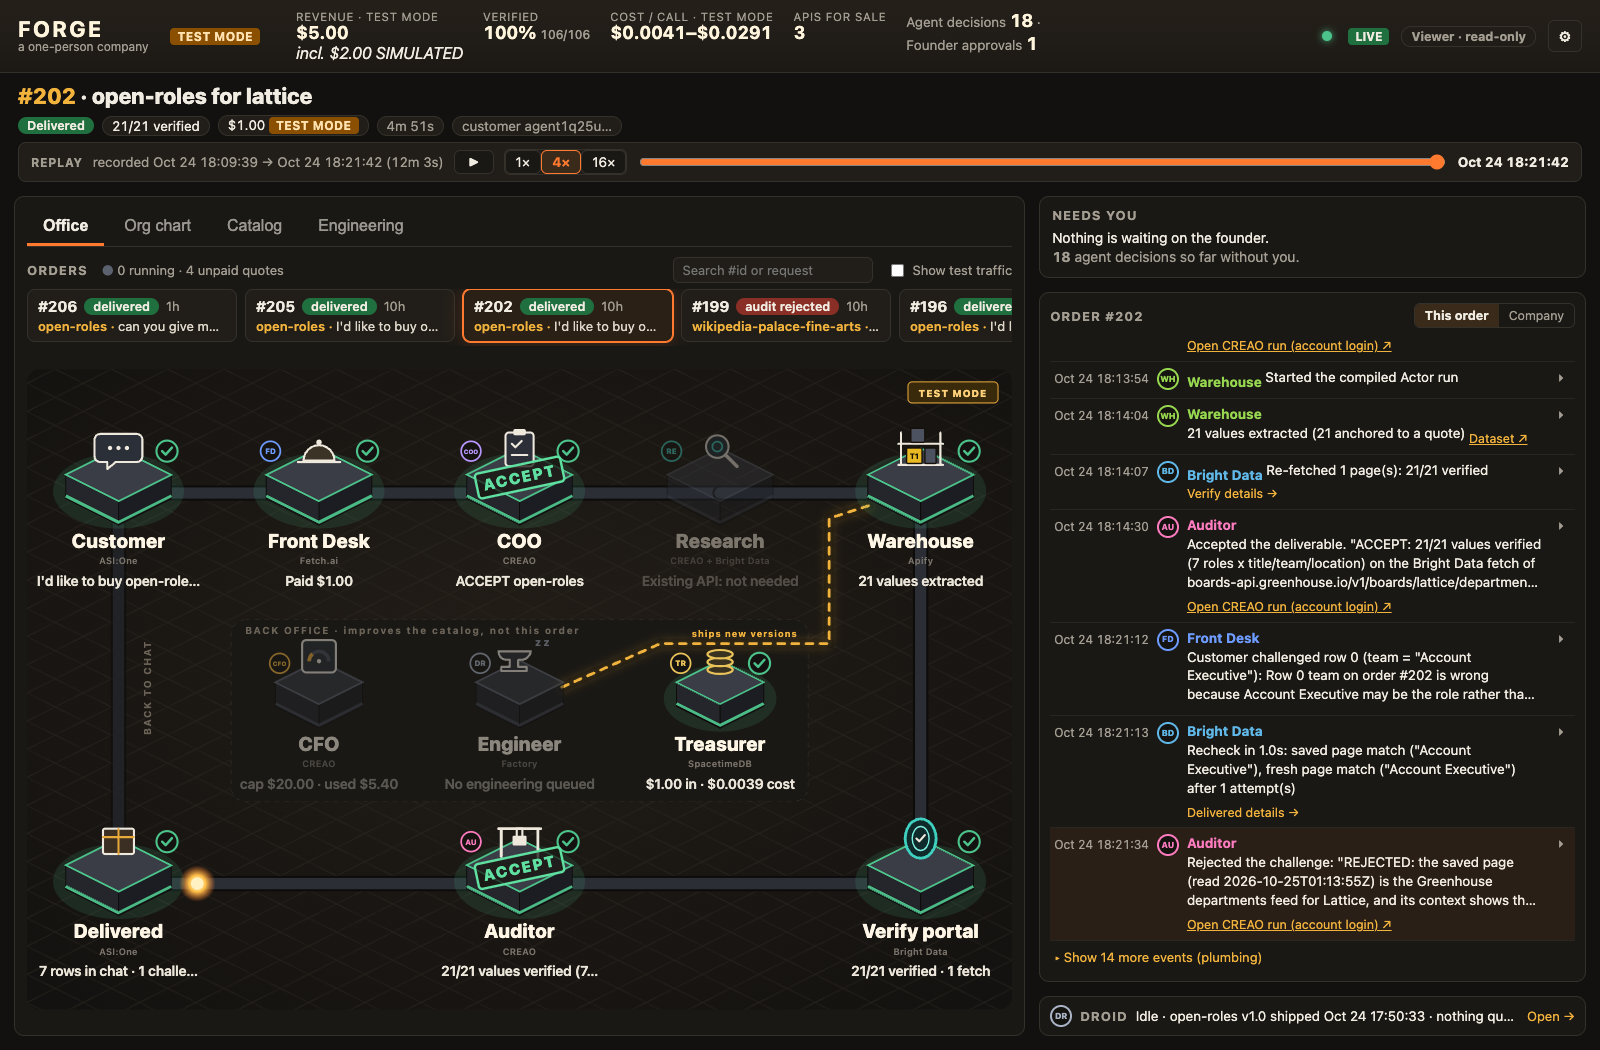
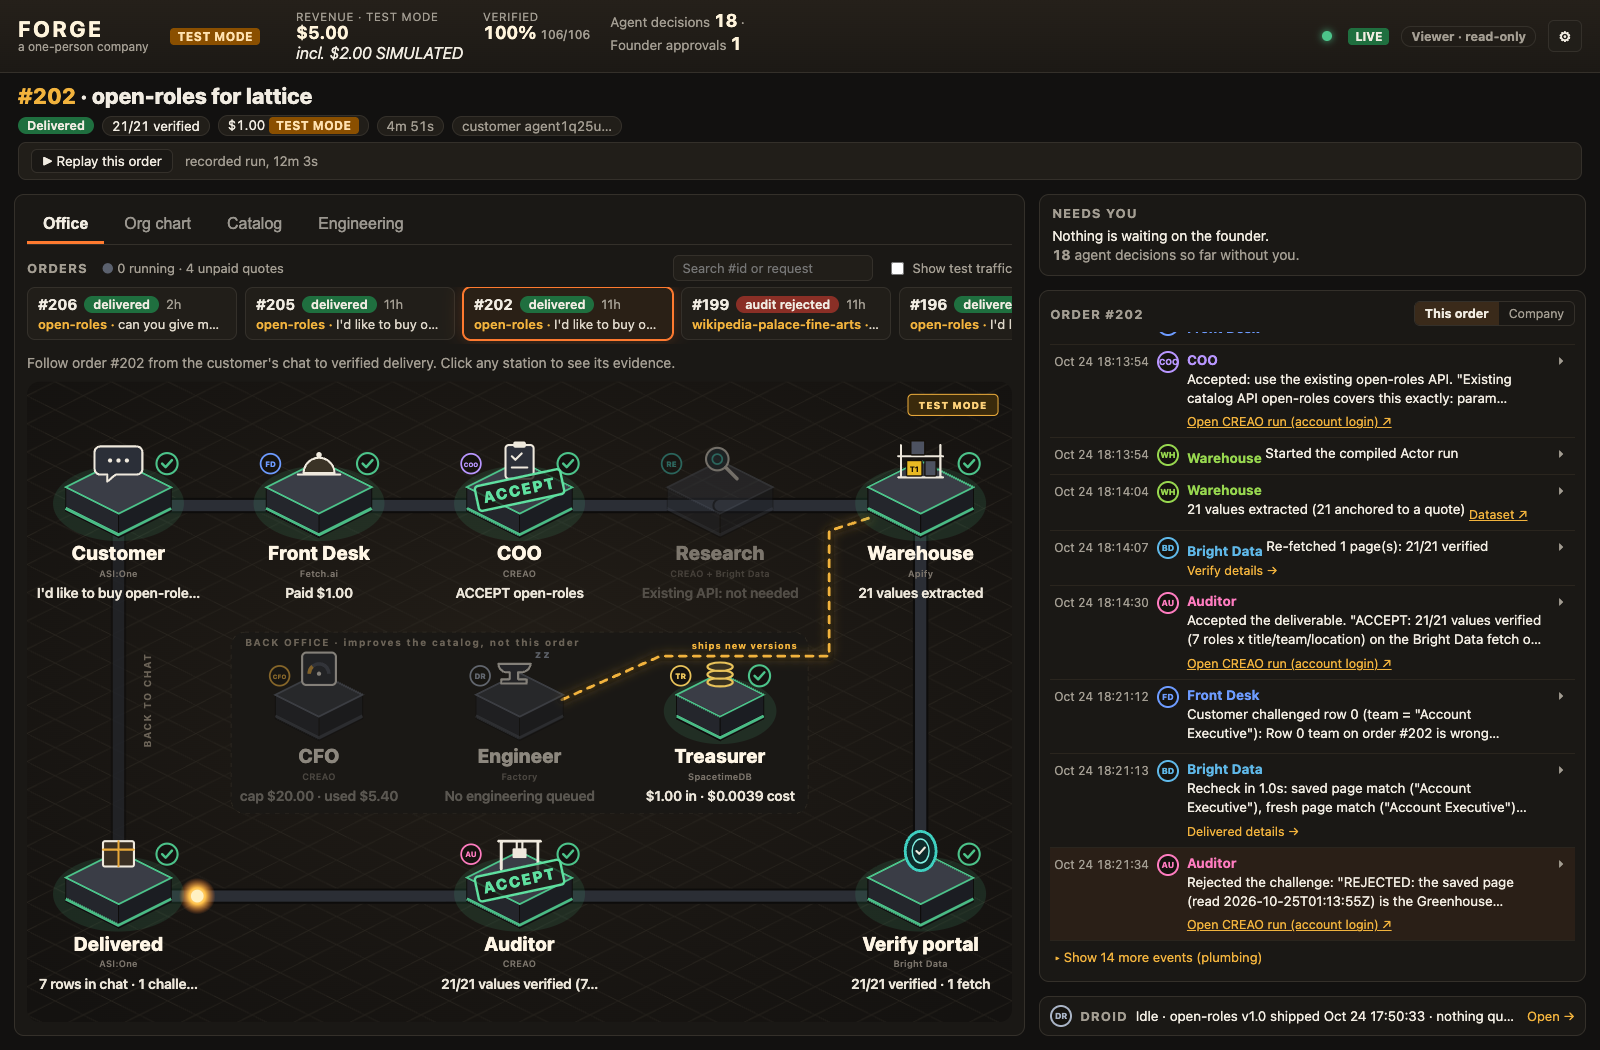
docs: simplify agent overview and list CREAO run records
Replace the README's agent flowchart with an architecture diagram and a
short order walkthrough, list real CREAO run IDs per seat, state what
stops without the agents, explain org chart handoffs, and refresh the
dashboard screenshot. Mirror the CREAO section in the Devpost text.

diff --git a/README.md b/README.md
@@ -8,7 +8,7 @@ FORGE is a one-person company staffed by AI agents, built at Cal Hacks 13.0. Cus
 
 ![FORGE dashboard showing the agent workflow, verified delivery, and challenge review for an open-roles order](docs/images/dashboard.png)
 
-Captured from the deployed dashboard on October 25, 2026. The selected order is a completed run with its history labeled REPLAY; the dashboard connection is LIVE. All money is TEST MODE, and the header identifies simulated payments separately.
+Captured on October 25, 2026 from the current dashboard build, connected to the live database. The selected order is completed; its recorded run can be replayed from the button under the headline. All money is TEST MODE, and the header identifies simulated payments separately.
 
 ## What FORGE sells
 
@@ -28,131 +28,65 @@ Every value carries its source URL, excerpt, snapshot key and hash, observation 
 
 ## How the agents work
 
+Every agent talks to one shared database, SpacetimeDB. Agents never call each other directly. They read state, record decisions, and pick up tasks from the queue, while database rules decide what each role is allowed to do.
+
 ```mermaid
-flowchart TD
-    subgraph fulfillment["Order fulfillment"]
-        customer["ASI:One customer or independent buyer"] --> desk["Front Desk: intent and admission checks"]
-        desk -->|Pass| payment["Quote and TEST MODE payment"]
-        desk -->|Fail or exceed scope| response["Rejection or counteroffer in chat"]
-        payment --> queue["SpacetimeDB order and task queue"]
-        queue --> coo{"COO decision"}
-        coo -->|Research needed| research["Research: cited gate checks and measured volatility"]
-        research --> coo
-        coo -->|Reject or counteroffer| response
-        coo -->|Accept| apify["Apify Task or Actor: save pages, extract, check anchors"]
-        apify --> verify["Bright Data: independent source fetch"]
-        verify --> audit{"Auditor verdict with reason"}
-        audit -->|Reject| rejected["Rejected deliverable; eligible TEST MODE refund"]
-        audit -->|Accept| treasurer["Treasurer: costs and accepted-work bonuses"]
-        treasurer --> delivery["Front Desk: status, verified results, dataset link"]
-    end
-
-    subgraph compilation["API compilation"]
-        trigger["Demand or quality trigger"] --> cfo{"CFO investment decision"}
-        cfo -->|Defer| deferred["Keep current engine"]
-        cfo -->|Compile| budget["Budget reservation; founder approval if over cap"]
-        budget --> droid["Droid: compile deterministic extractor"]
-        droid --> tests["Fixture, contract, and live tests"]
-        tests --> review{"Auditor compile review"}
-        review -->|Reject| droid
-        review -->|Accept| founder["Founder ship approval"]
-        founder --> ship["Worker publishes version for every buyer"]
-    end
-
-    subgraph challenges["Customer challenge"]
-        challenge["Front Desk: check ownership and open challenge"] --> recheck["Check saved page and fetch current source"]
-        recheck --> ruling{"Auditor ruling"}
-        ruling -->|Rejected| quotes["Return saved quote, fresh result, and timestamps"]
-        ruling -->|Upheld| correction["Correct or withdraw value; TEST MODE refund and bonus clawback"]
-        correction --> repair["Tier 0 compile ticket or Tier 1 warranty ticket"]
-    end
-
-    treasurer -.->|Configured trigger met| trigger
-    delivery -->|Customer disputes a value| challenge
+flowchart LR
+    customer["Customer in ASI:One<br/>or independent buyer agent"] <-->|chat, TEST MODE payment| desk["Front Desk<br/>(Fetch.ai)"]
+    desk <--> db[("SpacetimeDB<br/>orders, tasks, rules, ledger")]
+    founder["Founder dashboard"] <-->|live view, approvals| db
+    db <-->|decisions via FORGE CLI| creao["CREAO agents<br/>COO, Research, CFO, Auditor"]
+    db -->|run API| apify["Apify Actors<br/>extract data"]
+    apify -->|fetch pages| bright["Bright Data<br/>retrieve and re-check sources"]
+    db <-->|compile tickets| droid["Factory Droid<br/>writes dedicated extractors"]
+    droid -->|publish after approval| apify
 ```
 
-### Responsibilities and authority
+### An order, step by step
 
-| Role | Runtime | Responsibility |
+1. **Ask.** A customer requests an API in ASI:One. The Front Desk rejects personal data, blocked domains, and oversized requests before anything costs money.
+2. **Admit.** For a new source, Research checks robots.txt, terms, reachability, and how often the data changes. The COO then accepts, counteroffers, or rejects with a reason.
+3. **Pay.** The customer pays in TEST MODE and the order enters the task queue.
+4. **Extract and verify.** An Apify Actor saves each page and extracts values with verbatim source quotes. Bright Data fetches the source again independently. A value that cannot be matched to its source is marked `unverifiable`.
+5. **Audit and deliver.** The Auditor accepts or rejects the result with a written reason. The Front Desk delivers accepted results in chat; customers can send `status` at any time.
+
+### Two other flows
+
+- **Compile.** When an API has enough buyers or its quality drops, the CFO decides whether to fund a dedicated extractor. Factory Droid writes it under a restricted tool policy, tests run, the Auditor reviews it, and the founder approves the ship. Rejected attempts go back to the same Droid session.
+- **Challenge.** A customer can dispute a delivered value. FORGE compares it with the original saved page and a fresh fetch, and the Auditor rules. An upheld challenge corrects the value, refunds the order in TEST MODE ledger credits, claws back bonuses, and opens a repair ticket. A page that changed after extraction is not counted as an extractor error.
+
+### Who does what
+
+| Role | Runs on | Job |
 | --- | --- | --- |
-| Front Desk | Fetch uAgent and ASI-1 | Parse requests, run deterministic checks, quote, take test payment, report status, deliver results, and open challenges |
-| Buyer | Separate Fetch uAgent | Discover FORGE on Agentverse and purchase an API with its own identity and testnet wallet |
-| COO | CREAO saved agent | Accept, counteroffer, request research, or reject with a reason |
-| Research | CREAO saved agent and Bright Data | Record admission findings, citations, reachability, and measured volatility |
-| CFO | CREAO saved agent | Propose compilation, defer investment, or recommend repricing using unit economics |
-| Auditor | CREAO saved agent | Accept or reject deliverables, challenges, and compile attempts using recorded checks |
-| Treasurer and rules | SpacetimeDB reducers | Enforce money movements, budgets, bonuses, refunds, and compile triggers |
-| Engineer | Factory Droid SDK and `droid-runner` | Compile deterministic extractors and revise rejected attempts in the same engineering session |
-| Founder | Dashboard under the founder identity | Set controls and approve gated spending, shipping, Droid actions, and refunds |
+| Front Desk | Fetch uAgent and ASI-1 | Talk to customers, run cheap checks, take payment, deliver, open challenges |
+| Buyer | Separate Fetch uAgent | Buy an API as an ordinary customer with its own wallet |
+| COO | CREAO | Accept, counteroffer, request research, or reject orders |
+| Research | CREAO and Bright Data | Check whether a source may be collected and how volatile it is |
+| CFO | CREAO | Decide whether a compile is worth the money |
+| Auditor | CREAO | Accept or reject deliverables, challenges, and compiles |
+| Treasurer and rules | SpacetimeDB reducers | Move money, enforce budgets, issue bonuses and refunds, open compile tickets |
+| Engineer | Factory Droid and `droid-runner` | Write and revise dedicated extractors |
+| Founder | Dashboard | Set budgets and approve spending, shipping, Droid actions, and refunds |
 
-CREAO agents use the dependency-free [FORGE CLI](skills/forge-cli/SKILL.md) with separate seat tokens. Only the dispatcher starts CREAO runs. Agents cannot start other agents or grant themselves authority. Each CREAO dispatch starts a new thread; Droid resumes its engineering session for rework on the same API.
+### Guardrails
 
-### Admission before fulfillment
+- Only database reducers grant authority, based on the caller's role. Chat, web pages, agent output, and webhook bodies are untrusted.
+- Only the dispatcher starts CREAO runs. Each agent acts through the [FORGE CLI](skills/forge-cli/SKILL.md) with its own seat token.
+- Droid cannot use the network, read secrets, or deploy. Only the worker publishes, and only after Auditor acceptance and founder approval.
+- The ledger is private and double-entry in integer cents. All money is TEST MODE, and refunds are FORGE ledger credits, not Stripe or FET reversals.
+- Nothing is staged or invented. Playback is labeled REPLAY or RECORDED, and simulated activity is labeled SIMULATED.
 
-Checks run in cost order. Deterministic Front Desk checks precede paid research or extraction.
-
-| Check | Rule | Outcome on failure |
-| --- | --- | --- |
-| Requested fields | Public data only. Reject personal names, emails, phone numbers, and profiles. Aggregate counts are allowed. | Immediate rejection with a reason |
-| Source domain | Reject domains on `config.blocked_domains`, including login-only sources | Immediate rejection |
-| Scope | Stay within `config.page_cap` | Counteroffer for a bounded number of pages |
-| robots.txt | Check whether the requested paths allow collection | Record a gate finding for the COO |
-| Terms | Cite the automated-collection clause and its URL | Reject prohibited or unclear terms |
-| Reachability | Data must be accessible by URL or search, without a login, paywall, or multi-step form | Reject unsupported sources |
-| Volatility | Compare two fetches at least 120 seconds apart | Set the freshness policy from the observed result |
-
-An existing admitted API can proceed to fulfillment. For a new request, the COO requests Research, reads the stored findings, and decides whether to create a Tier 0 API, counteroffer, or reject. Research supplies findings; the COO makes the commercial decision.
-
-### Verification and delivery
-
-1. The Actor saves the source page and its hash. The excerpt must occur verbatim in that page text, and the value must occur verbatim in the excerpt. A failed anchor becomes `unverifiable`.
-2. A separate Bright Data fetch checks the source independently. Stable APIs require an exact excerpt and value match. Volatile APIs also enforce their freshness window; a changed anchored value becomes `stale` with the fresh value attached.
-3. Every retrieval attempt records its method, country, HTTP status, duration, and result. Exhausted retrieval becomes `unverifiable`, never an invented replacement.
-4. The Auditor reads the deterministic results and records acceptance or rejection with a reason. Unverified output is not delivered as fact. Bonuses depend on accepted work.
-5. The Front Desk reads the stored order and returns results in chat. Customers send `status` to retrieve progress and delivery because ASI:One may not display delayed agent-initiated messages.
-
-### Compilation and version rules
-
-Reducers open a compile ticket when verified quality falls below the configured threshold over the configured run window, an upheld Tier 0 challenge identifies an extractor error, or distinct buyers reach the demand threshold. The CFO can defer a demand-triggered investment.
-
-A funded compile follows these rules:
-
-- The engineering reservation must fit the budget cap or wait for founder approval. Lowering the cap re-evaluates pending compiles and makes those that no longer fit ineligible.
-- The worker creates an Actor worktree without secrets and supplies saved Tier 0 pages with audited expected values.
-- Droid edits the extractor under a restricted tool policy. Shared fetching, anchoring, and runtime plumbing stay read-only.
-- Fixture tests, additive-schema contract tests, and live-page tests must pass. The worker runs network-dependent live tests outside Droid's restricted turn.
-- An Auditor rejection returns the reason to the same Droid session. Test success, Auditor acceptance, founder ship approval, and deployment are separate steps.
-- Only the worker publishes after founder approval. Versions are additive: fields cannot be removed or renamed, and compilation preserves the API schema.
-
-### Challenges and accountability
-
-A customer names the order, row, metric, and reason. The Front Desk checks ownership and opens a challenge on a delivered value. FORGE compares the original saved page with the extractor's output and fetches the current source separately.
-
-The recheck targets seconds; the CREAO Auditor's ruling can take minutes. A page changing after extraction does not establish an extractor error.
-
-If the saved page shows that extraction was wrong, the Auditor upholds the challenge. A new value record supersedes the old one with an anchored correction, or withdraws it as `unverifiable` when no correction is supported. The Treasurer credits the eligible refund and claws back the associated bonuses. The rules open a Tier 0 compile ticket or a Tier 1 warranty ticket. A rejected challenge returns the saved quote, fresh result, and timestamps without a penalty.
-
-### Rules that apply to every agent
-
-- Only authenticated reducers authorize actions using `ctx.sender` roles and stored state. Chat, pages, agent output, and webhook bodies are untrusted inputs.
-- Founder approvals happen through dashboard reducer calls under the founder identity.
-- Reducers enforce state transitions and write events. Procedures and workers perform external calls, with no transaction open during HTTP requests.
-- Workers claim tasks atomically, hold expiring leases, and can complete only tasks they own. Expired leases return work to the queue.
-- Callbacks require one-time tokens. FORGE re-fetches provider status using server-side credentials and deduplicates run IDs.
-- The ledger is private and double-entry. Money uses integer cents, and each transaction balances to zero. The dashboard reads public summaries.
-- Keys stay server-side. Actor worktrees contain no secrets. Never commit credentials.
-- No staged failures or fabricated results. Historical playback is labeled REPLAY or RECORDED; simulated activity is labeled SIMULATED.
-- All payments, revenue, budgets, bonuses, and refunds are TEST MODE. Refunds credit FORGE's ledger; they do not reverse Stripe test payments or testnet FET transfers.
-
+The full operating rules are in [AGENTS.md](AGENTS.md).
 ## Dashboard
 
 Customers use ASI:One. The [founder dashboard](https://forge-calhacks.vercel.app) follows company state through SpacetimeDB subscriptions on desktop and phone. Fresh visitors have read-only Viewer access.
 
 | View | What it shows |
 | --- | --- |
-| Header and order headline | Revenue, verification, cost per call, catalog size, agent decisions, founder approvals, and the selected order's status |
+| Header and order headline | Revenue, verification, agent decisions, founder approvals, and the selected order's status, with a one-click replay of its recorded run |
 | Office | The order moving through role stations, with decision reasons, source checks, and run links in drawers |
-| Org chart | Employee responsibilities and handoffs counted from stored events |
+| Org chart | Each employee's responsibilities, with one line per handoff between agents, counted from stored events |
 | Catalog | APIs, tier, version, buyers, sources, fields, measured costs, and datasets |
 | Engineering | Compile triggers, CFO decisions, budget reservations, Droid calls and diffs, tests, Auditor reviews, approvals, and ships |
 | Needs you and feed | Approval cards, readable events, raw event expanders, and current engineering status |
@@ -181,7 +115,9 @@ The dashboard uses React, SVG, and Framer Motion. Its behavior is specified in [
 
 CREAO runs the COO, Research, CFO, and Auditor as saved agents. FORGE uses API Trigger to start runs, receives completion through webhooks or polling, and stores seat credentials in CREAO Secrets. The agents use the sandbox's FORGE CLI to read company state and call role-specific reducers.
 
-This gives the company explicit decision makers with written reasons and inspectable runs. Without those decisions, paid orders cannot move through admission and audit, and compile tickets cannot receive investment approval.
+Remove the CREAO agents and FORGE stops working. Every paid order waits at `paid` until the COO decides, nothing is delivered until the Auditor accepts it, and compile tickets cannot get investment approval without the CFO.
+
+The agents hand work to each other through the shared task queue rather than calling each other. The COO sends a new source to Research, Research reports back to the COO, the CFO funds a compile for Droid, and the Auditor sends a rejected compile back to Droid. Each line on the dashboard's org chart is one of these handoffs, counted from stored events.
 
 | Seat | Agent ID |
 | --- | --- |
@@ -189,6 +125,22 @@ This gives the company explicit decision makers with written reasons and inspect
 | Research | [`bad9531d-a359-4af3-9913-fc9310fe4218`](https://agent.creao.ai/apps/bad9531d-a359-4af3-9913-fc9310fe4218) |
 | CFO | [`63d131de-1b0c-4801-a58f-1698c894a672`](https://agent.creao.ai/apps/63d131de-1b0c-4801-a58f-1698c894a672) |
 | Auditor | [`6865c094-e20c-48c7-a969-d5e75c67dd06`](https://agent.creao.ai/apps/6865c094-e20c-48c7-a969-d5e75c67dd06) |
+
+Recorded runs from real orders and the `open-roles` compile, with their CREAO run IDs:
+
+| Seat | What it decided | Run ID |
+| --- | --- | --- |
+| COO | Order #202: accepted the existing `open-roles` API | `d808efca-0904-4c0c-bf2a-57934c77643b` |
+| Auditor | Order #202: accepted 21/21 verified values | `a10d1414-5b62-494e-bf29-df3e28885c76` |
+| Auditor | Challenge #14 on order #202: rejected, the saved page supports the value | `3c503efd-776f-48da-b3e8-fe611bb41b22` |
+| Research | Order #199: gate checks for a new Wikipedia source | `3c53bb8a-ca6a-4858-a208-a729f940d8ad` |
+| COO | Order #199: decided after reading Research's findings | `88e3561d-b521-4aad-86db-035c099c1c24` |
+| Auditor | Order #199: rejected a delivery missing a requested field | `d1a138fb-f4c1-42c2-bd89-bba9c3698135` |
+| CFO | Compile ticket #6: funded the `open-roles` compile | `57cb47f7-b02e-4d58-8fe1-29943d0937dc` |
+| Auditor | Compile ticket #6, attempt 1: rejected | `4e5f8425-ec46-4d3e-9960-e967e5a40987` |
+| Auditor | Compile ticket #6, attempt 2: accepted | `e0b6c53f-079d-4bf7-b419-17c7d6babdcc` |
+
+Run IDs come from the `run` table and the saved records in [`docs/proof/`](docs/proof/). Run pages need the owner's CREAO login; share links are public.
 
 [Saved prompts and setup](docs/creao/README.md) · [Deployment notes](docs/creao/deployment.md) · [Public CFO run](https://agent.creao.ai/share/2361cbf6417714be089c498e9e96c580), available until November 23, 2026. The run's comparison includes simulated compile-test fixtures, as documented in the deployment notes.
 

diff --git a/docs/devpost.md b/docs/devpost.md
@@ -28,6 +28,32 @@ When an API proves demand or has quality problems, a reducer opens a compile tic
 
 The founder watches all of it on a live dashboard on a laptop and a phone: a forge floor with one station per employee, an org chart of handoffs, the catalog, and the recorded compile.
 
+## CREAO agents
+
+Remove the CREAO agents and FORGE stops working. Every paid order waits at `paid` until the COO decides, nothing is delivered until the Auditor accepts it, and compile tickets cannot get investment approval without the CFO.
+
+The agents hand work to each other through the shared task queue: the COO sends new sources to Research, Research reports back, the CFO funds compiles for Droid, and the Auditor sends rejected compiles back to Droid. Each line on the dashboard's org chart is one of these handoffs, counted from stored events.
+
+| Seat | Agent ID |
+|---|---|
+| COO | `81c6c2cc-98d6-4ea5-8fcf-942f8772bf20` |
+| Research | `bad9531d-a359-4af3-9913-fc9310fe4218` |
+| CFO | `63d131de-1b0c-4801-a58f-1698c894a672` |
+| Auditor | `6865c094-e20c-48c7-a969-d5e75c67dd06` |
+
+| Seat | What it decided | Run ID |
+|---|---|---|
+| COO | Order #202: accepted the existing `open-roles` API | `d808efca-0904-4c0c-bf2a-57934c77643b` |
+| Auditor | Order #202: accepted 21/21 verified values | `a10d1414-5b62-494e-bf29-df3e28885c76` |
+| Auditor | Challenge #14 on order #202: rejected, the saved page supports the value | `3c503efd-776f-48da-b3e8-fe611bb41b22` |
+| Research | Order #199: gate checks for a new Wikipedia source | `3c53bb8a-ca6a-4858-a208-a729f940d8ad` |
+| COO | Order #199: decided after reading Research's findings | `88e3561d-b521-4aad-86db-035c099c1c24` |
+| Auditor | Order #199: rejected a delivery missing a requested field | `d1a138fb-f4c1-42c2-bd89-bba9c3698135` |
+| CFO | Compile ticket #6: funded the `open-roles` compile | `57cb47f7-b02e-4d58-8fe1-29943d0937dc` |
+| Auditor | Compile ticket #6, attempt 1: rejected | `4e5f8425-ec46-4d3e-9960-e967e5a40987` |
+| Auditor | Compile ticket #6, attempt 2: accepted | `e0b6c53f-079d-4bf7-b419-17c7d6babdcc` |
+
+Public CFO run: https://agent.creao.ai/share/2361cbf6417714be089c498e9e96c580 (available until November 23, 2026; its comparison includes simulated compile-test fixtures).
 ## How we built it
 
 - **SpacetimeDB** is the only database. A TypeScript module on Maincloud holds APIs, orders, tasks, budgets, a double-entry ledger and an append-only event log. Reducers enforce every rule by the caller's role. Procedures are the only code that calls the outside world, and they never call out with a transaction open. HTTP routes receive CREAO and Apify callbacks with one-time tokens.
@@ -89,7 +115,7 @@ TypeScript, Node.js, Python, pnpm, uv, SpacetimeDB (Maincloud), CREAO, Factory D
 - [ ] Demo video link (required by Devpost).
 - [ ] Separate 3 to 5 minute Fetch.ai video link.
 - [ ] Redesign steps 3 to 6 (`docs/dashboard-redesign-spec.md` §11) are built and match the README's "How to see it" section: Org chart tab, Needs-you approval cards in the right rail, Droid strip, Engineering tab layout, phone layout. Remove or reword any part that did not ship.
-- [ ] CREAO share links for a COO, a Research and an Auditor run (no `run` row has a share URL yet). The CFO share link expires November 23, 2026.
+- [ ] CREAO share links for the COO, Research and Auditor runs listed under "CREAO agents" (run IDs are listed; no `run` row has a share URL yet). The CFO share link expires November 23, 2026.
 - [ ] Verify the committed Front Desk README/badges render on Agentverse; complete ASI:One submission registration.
 - [ ] `forge-extract` Actor link and Apify Store listing; verify the Best Use entry.
 - [ ] Student eligibility under the event rules; the original planning notes did not confirm it.
